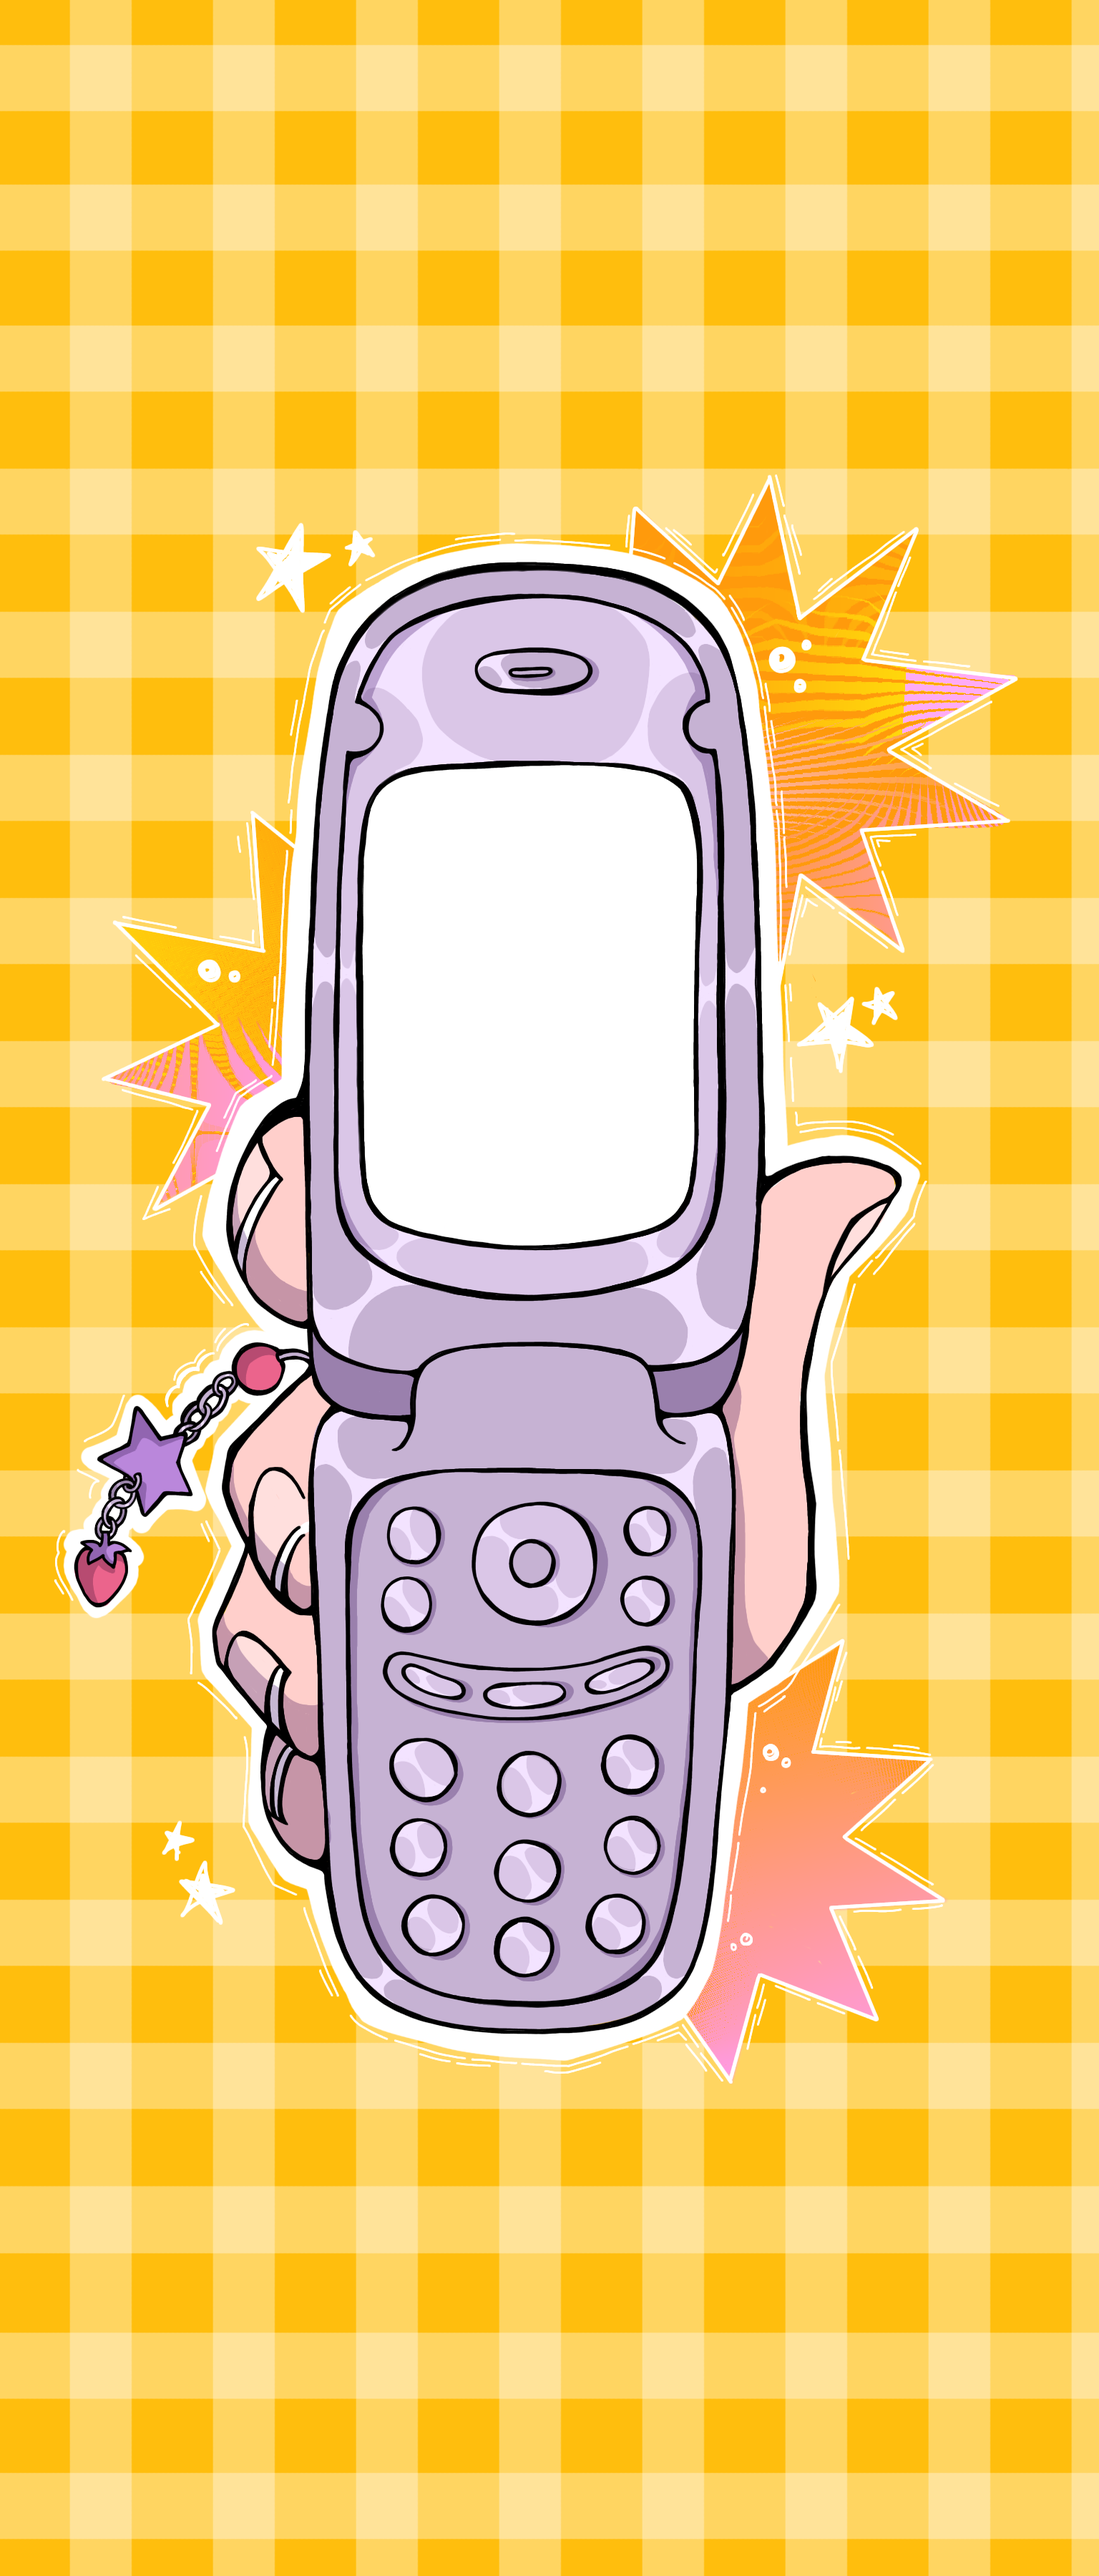
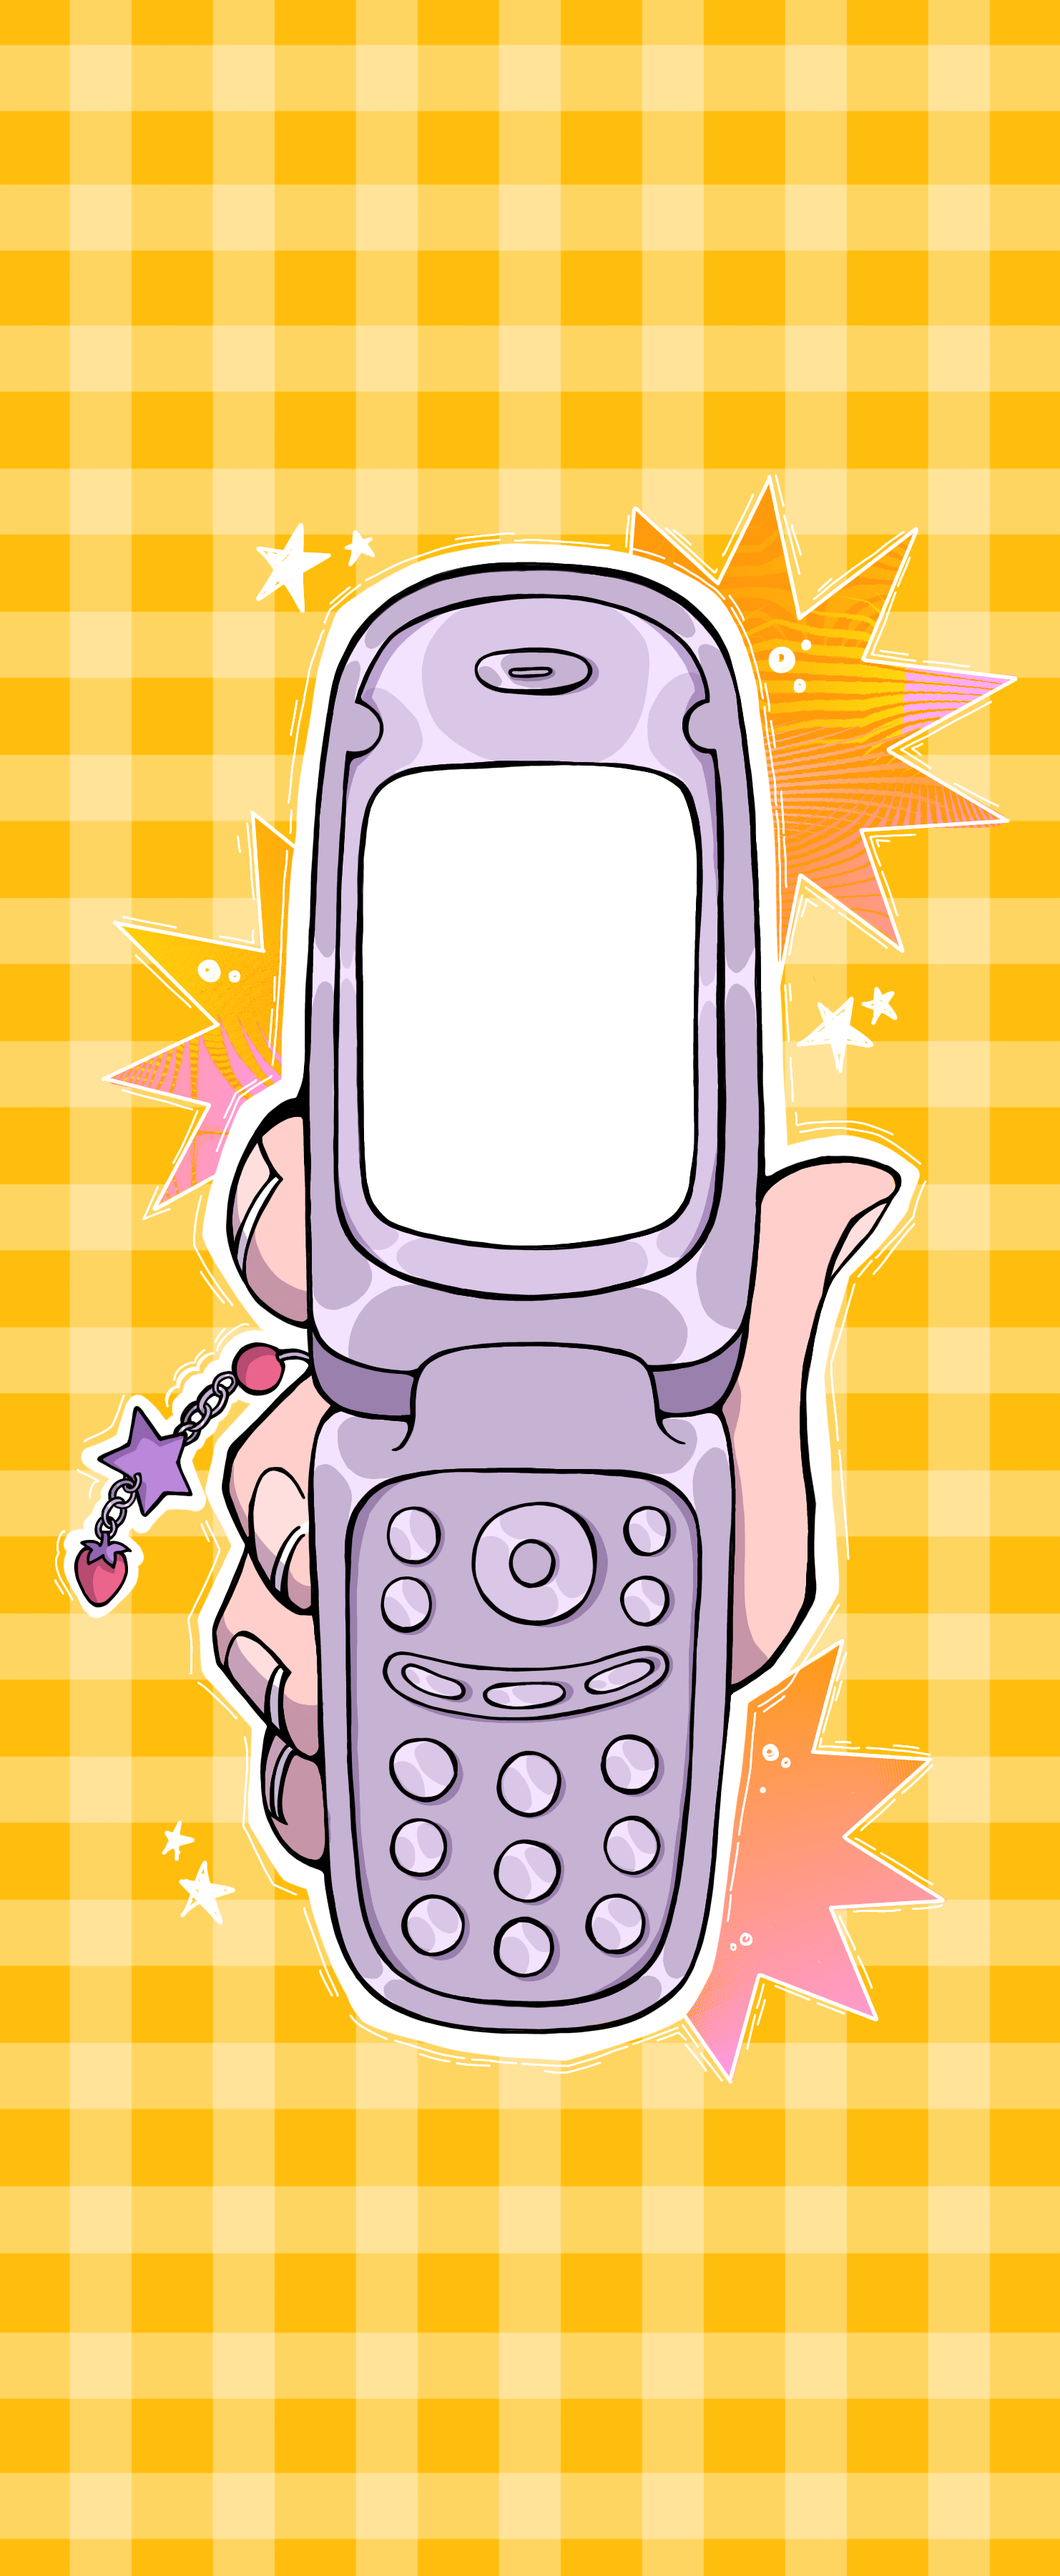
help

diff --git a/script.js b/script.js
@@ -25,7 +25,7 @@ function isMobile() {
     const aspectRatio = window.innerWidth / window.innerHeight;
     const screenRatio = window.screen.width / window.screen.height;
 
-    const mobileRatio = { min: 0.44, max: 1.4};
+    const mobileRatio = { min: 0.44, max: 0.8};
 
     if (aspectRatio >= mobileRatio.min && aspectRatio <= mobileRatio.max ||
         screenRatio >= mobileRatio.min && screenRatio <= mobileRatio.max
@@ -326,22 +326,82 @@ if (currentMode === 'mobile') {
     computer.style.height = 'auto';
 
     const hiWrapper = document.querySelector('.hi-wrapper');
-    const bgWrapper = document.querySelector('.bg-wrapper')
     const hi = document.getElementById('hi');
     hi.src = 'images/mobile-hi.PNG';
-    hi.style.height = '20vh';
-    bgWrapper.appendChild(hiWrapper);
+    hi.style.height = '22vw';
     hiWrapper.style.zIndex = '9999';
-    hiWrapper.style.top = '20%';
-    hiWrapper.style.left = '48%';
-
+    hiWrapper.style.top = '35%';
+    hiWrapper.style.transform = 'translate(-50%, -50%)';
 
     const logo = document.getElementById('logo');
-    const window = document.getElementById('window');
+    const logoWrapper = document.querySelector('.logo-wrapper');
+    const nwindow = document.getElementById('window');
+    const nwindowWrapper = document.querySelector('.window-wrapper');
     const extender = document.getElementById('extend');
-    logo.style.display = 'none';
-    window.style.display = 'none';
-    extender.style.display = 'none';
+    const extenderWrapper= document.querySelector('.extender-wrapper');
+    logo.style.opacity = '0';
+    nwindow.style.opacity = '0';
+    extender.style.opacity = '0';
+
+    // mobile scroll events
+    window.addEventListener("scroll", () => {
+        const scrollTop = window.scrollY;
+        const computer = document.getElementById("bg");
+        const iama = document.getElementById('iama');
+
+        const scale = 1 + scrollTop / 250;
+        const scale2 = 1 + scrollTop / 5000;
+        const scalehi = 1 + scrollTop / 1000;
+
+        if (scrollTop <= 1500) {
+            computer.style.transform = `scale(${scale})`;
+            hi.style.transform = `translateY(${-(scale2 - 1) * 200}%) scale(${scalehi})`;
+            nwindow.style.height = '60vw';
+            nwindowWrapper.style.top = '84vw';
+            nwindow.style.transform = `translateY(${-(scale2 - 1) * 30}%) scale(${scale2})`;
+            extender.style.height = '40.85vw';
+            extenderWrapper.style.top = '104vw';
+            extender.style.transform = `translateY(${-(scale2 - 1) * -2}%) scale(${scale2})`;
+            logo.style.height = '36vw';
+            logoWrapper.style.top = '93.55vw';
+            logo.style.transform = `translateY(${-(scale2 - 1) * 20}%) scale(${scale2})`;
+            iama.style.display = 'none';
+
+            // store final states
+            scaledWindow = Math.min(scale2, 2);
+            frozenWindow  = -(scale2 - 1) * 30; 
+            frozenExtend =  -(scale2 - 1) * -2;
+            frozenLogo = -(scale2 - 1) * 20;
+            frozenTitle = -(scale2 - 1) * 110;
+        }
+
+        const staticUI = [nwindow, extender, logo, iama];
+
+        // helper to show/hide using opacity instead of removing
+        function hideUIOpacity() {
+            staticUI.forEach(el => {
+                if (!el) return;
+                el.style.transition = 'opacity 0.4s ease';
+                el.style.opacity = '0';
+            });
+        }
+
+        function showUIOpacity() {
+            staticUI.forEach(el => {
+                if (!el) return;
+                el.style.transition = 'opacity 0.4s ease';
+                el.style.opacity = '1';
+            });
+        }
+
+        if (scrollTop >= 1100) {
+            showUIOpacity();
+        }
+
+        if (scrollTop < 1100) {
+            hideUIOpacity();
+        }
+    })
 
 } else {
     // SCROLL EVENTS START HERE
